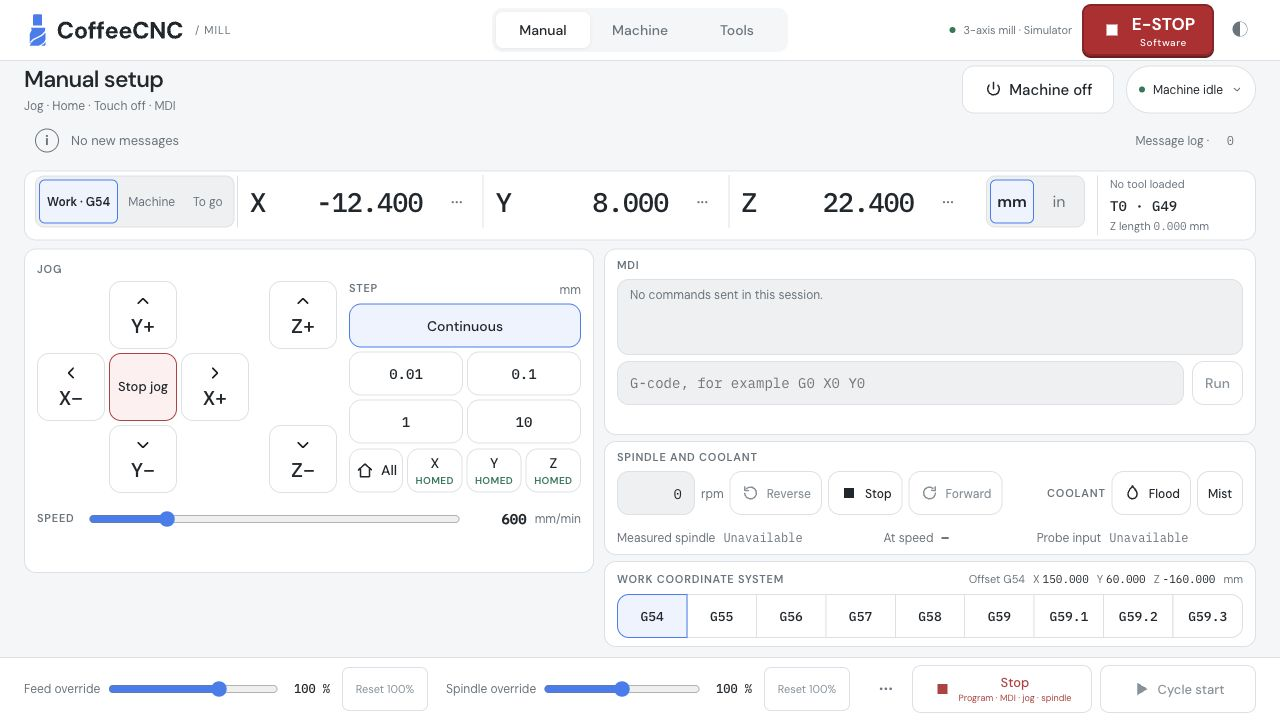
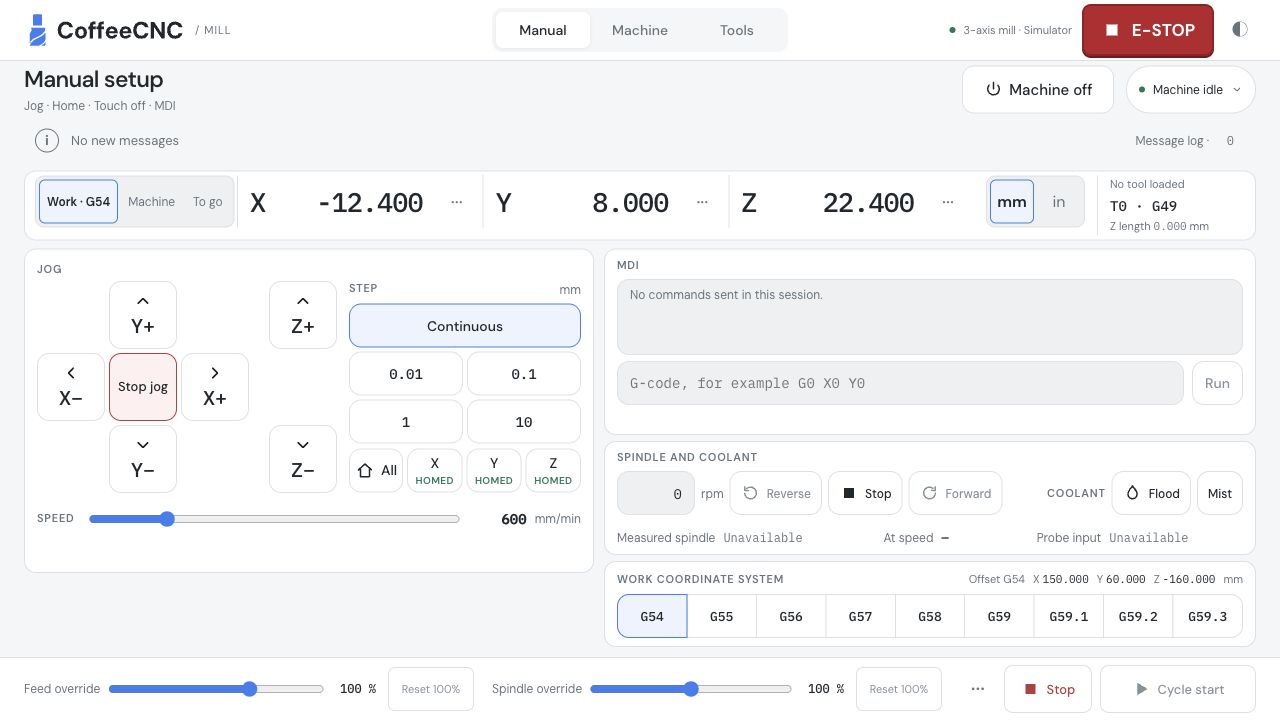
Simplify stop buttons and record native coolant verification

Changed region(s): [[0.1562, 0.9472, 0.8438, 0.9778], [0.875, 0.0, 0.9375, 0.0611]]

diff --git a/ui/src/components/StatusBar.vue b/ui/src/components/StatusBar.vue
@@ -97,7 +97,7 @@ const subtitle = computed(() => {
     </nav>
     <div class="machine">
       <span v-tooltip="linkLabel" class="connection" :class="{ disconnected: !live }"><i class="dot"></i><span class="connection-label">{{ linkLabel }}</span></span>
-      <button class="estop" type="button" aria-label="Assert software E-stop" @click="send({ type: 'set_machine', state: 'estop' })"><AppIcon name="stop" /><span>E-STOP<small>Software</small></span></button>
+      <button class="estop" type="button" aria-label="Assert software E-stop" @click="send({ type: 'set_machine', state: 'estop' })"><AppIcon name="stop" />E-STOP</button>
       <button class="theme" type="button" :aria-label="`Switch to ${theme === 'light' ? 'dark' : 'light'} theme`" @click="toggleTheme">◐</button>
     </div>
   </header>
@@ -156,7 +156,6 @@ const subtitle = computed(() => {
 .disconnected { color: var(--stop); }.disconnected .dot { background: var(--stop); }
 .theme { width: 32px; height: 36px; background: none; border: 0; color: var(--text-dim); font-size: 18px; cursor: pointer; }
 .estop { display: flex; align-items: center; justify-content: center; gap: 9px; flex: none; min-width: 132px; height: 52px; padding: 0 15px; background: #b9202b; border: 2px solid #941822; border-radius: 9px; box-shadow: 0 2px 0 #74131b; color: #fff; font-size: 17px; font-weight: 700; cursor: pointer; }
-.estop small { display: block; font-size: 10px; font-weight: 500; line-height: 1.1; letter-spacing: .6px; }
 .estop:hover { background: #a51924; }.estop:active { box-shadow: none; transform: translateY(1px); }.estop:focus-visible { outline: 3px solid var(--accent); outline-offset: 3px; }
 .estop :deep(svg) { width: 22px; height: 22px; }
 .machine-controls { display: flex; align-items: center; gap: 12px; flex: none; }.power-control { min-width: 152px; min-height: 48px; font-size: 15px; }

diff --git a/ui/src/components/RunBar.vue b/ui/src/components/RunBar.vue
@@ -94,7 +94,7 @@ function option(which: 'optional_stop' | 'block_delete'): void {
           </div>
         </div>
       </details>
-      <button class="btn stop-button" type="button" aria-label="Stop program, MDI, jog and spindle" @click="send({ type: 'abort' })"><AppIcon name="stop" /><span>Stop<small>Program · MDI · jog · spindle</small></span></button>
+      <button class="btn stop-button" type="button" aria-label="Stop program, MDI, jog and spindle" @click="send({ type: 'abort' })"><AppIcon name="stop" />Stop</button>
       <button v-tooltip="primary.blocked ?? primary.label" class="btn primary main-action" type="button" :disabled="primary.blocked !== null" @click="send({ type: primary.type })"><AppIcon :name="primary.icon" />{{ primary.label }}</button>
     </div>
   </footer>
@@ -103,7 +103,7 @@ function option(which: 'optional_stop' | 'block_delete'): void {
 <style scoped>
 .runbar { display: grid; grid-template-columns: minmax(140px, 1fr) minmax(140px, 1fr) auto; gap: 18px; align-items: center; flex: none; padding: 7px 24px; border-top: 1px solid var(--line); background: var(--panel); }
 .command-actions { display: flex; align-items: center; gap: 8px; }.command-actions > .btn { height: 48px; border-radius: 9px; font-size: 13px; }
-.stop-button { color: var(--stop); min-width: 180px; }.stop-button small { display: block; font-size: 9px; line-height: 1.5; font-weight: 400; }.main-action { min-width: 156px; }
+.stop-button { color: var(--stop); min-width: 88px; }.main-action { min-width: 156px; }
 .more { position: relative; }.more-button { display: flex; align-items: center; justify-content: center; width: 36px; height: 48px; font-size: 24px; color: var(--text-dim); }
 .popover { bottom: calc(100% + 16px); right: -100px; }
 </style>

diff --git a/ui/test/capability-controls.test.ts b/ui/test/capability-controls.test.ts
@@ -74,11 +74,12 @@ describe('capability-aware controls', () => {
     panel.status.offsets.wcs = 1; panel.link = 'stale'; await nextTick()
     expect(wrapper.get('.wcs-values').text()).toContain('Last reported')
   })
-  it('has explicit override reset buttons and visible Stop scope', async () => {
+  it('has explicit override reset buttons and concise Stop text', async () => {
     if (!panel.status) throw new Error('Missing status')
     panel.status.motion.feed_override = 0.45
     wrapper = mount(RunBar)
-    expect(wrapper.get('.stop-button').text()).toContain('Program · MDI · jog · spindle')
+    expect(wrapper.get('.stop-button').text()).toBe('Stop')
+    expect(wrapper.get('.stop-button').attributes('aria-label')).toBe('Stop program, MDI, jog and spindle')
     expect(wrapper.findAll('.override .value').every((value) => value.element.tagName === 'SPAN')).toBe(true)
     await wrapper.get('button[aria-label="Reset feed override to 100%"] ').trigger('click')
     expect(send).toHaveBeenCalledExactlyOnceWith({ type: 'set_override', which: 'feed', value: 1 })

diff --git a/README.md b/README.md
@@ -13,9 +13,9 @@ The 16 November deployment includes the logo, corrected native Quit, formula ent
 
 Native interpreter preview, STEP overlay and the tool-model editor now work in LinuxCNC simulation. The [preview](docs/preview.md) supports a bounded subset of G-code and reports unsupported input; persistent job configuration remains in progress. The [native shell reference](docs/shell.md) and [qualification record](docs/research/step-preview.md#native-webkitgtk-qualification) describe tested behavior and sanitizer limits. No hardware operation has been qualified.
 
-![CoffeeCNC native Manual workspace with the end-mill identity](ui/screenshots/native-manual-2026-11-16.png)
+![CoffeeCNC Manual workspace with compact coordinate controls](ui/screenshots/manual-coordinate-controls-1600.png)
 
-*Current GTK/WebKit build at 1280 × 800, captured on 16 November 2026 against LinuxCNC simulation. The end-mill identity, tappable coordinates, formula entry and native Quit are implemented. This image shows simulation, not the physical G0759. [Logo assets](docs/design/branding/README.md) · [Formula entry](docs/numeric-entry.md).*
+*Current Manual layout at 1600 × 900 in the browser simulator, captured on 16 November 2026. Direct power controls, compact axis-action menus, tappable coordinates and work offsets are implemented. [Native simulation checks and layout evidence](docs/research/evidence/manual-usability-2026-11-16.txt) · [Formula entry](docs/numeric-entry.md).*
 
 <details>
 <summary>Earlier G0759 controller deployment screenshot</summary>
